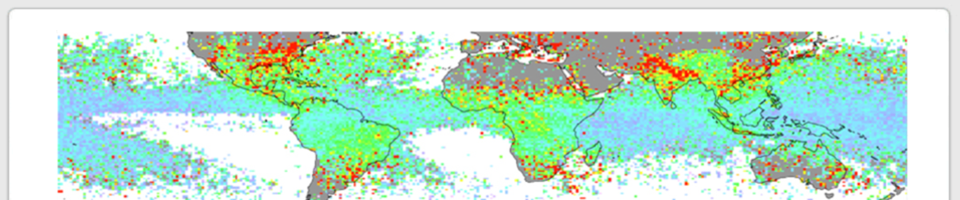
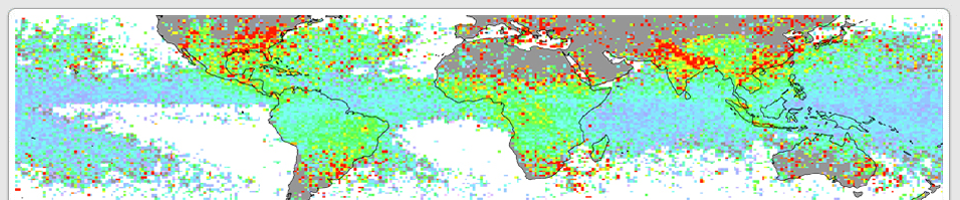
Update header

diff --git a/publications.html b/publications.html
@@ -60,7 +60,7 @@
 <div id="page">
 
 
-<style>.color-box{background-color: white; width: 917px; height: 42px; margin-left:32px; margin-top:-52px; border-color:black; border-style:solid; border-width:1px}</style>
+<style>.color-box{background-color: white; width: 932px; height: 42px; margin-left:24px; margin-top:-60px; border-color:black; border-style:solid; border-width:1px}</style>
 	
 <style>.transparent-box{background-color: transparent; width: 917px; height: 162px; margin-left:32px; margin-top:-52px; border-color:transparent}</style>
 	
